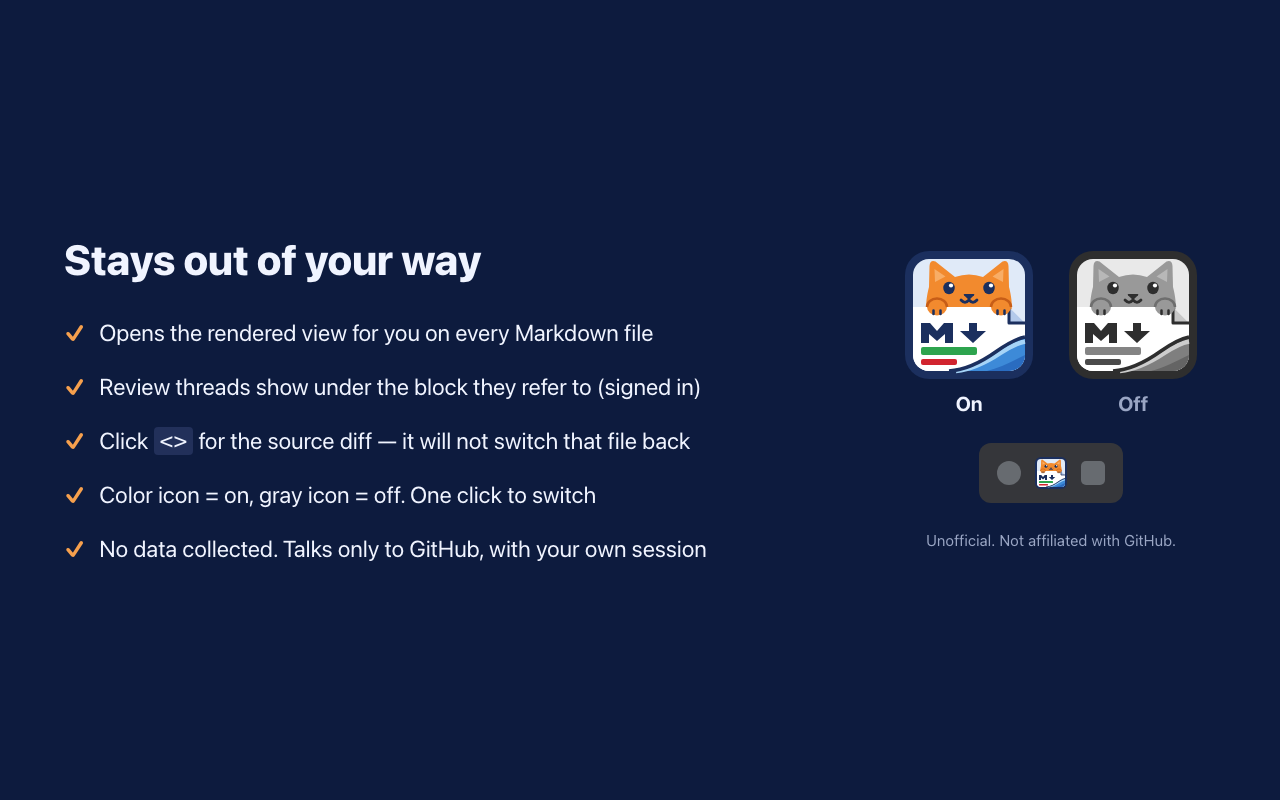
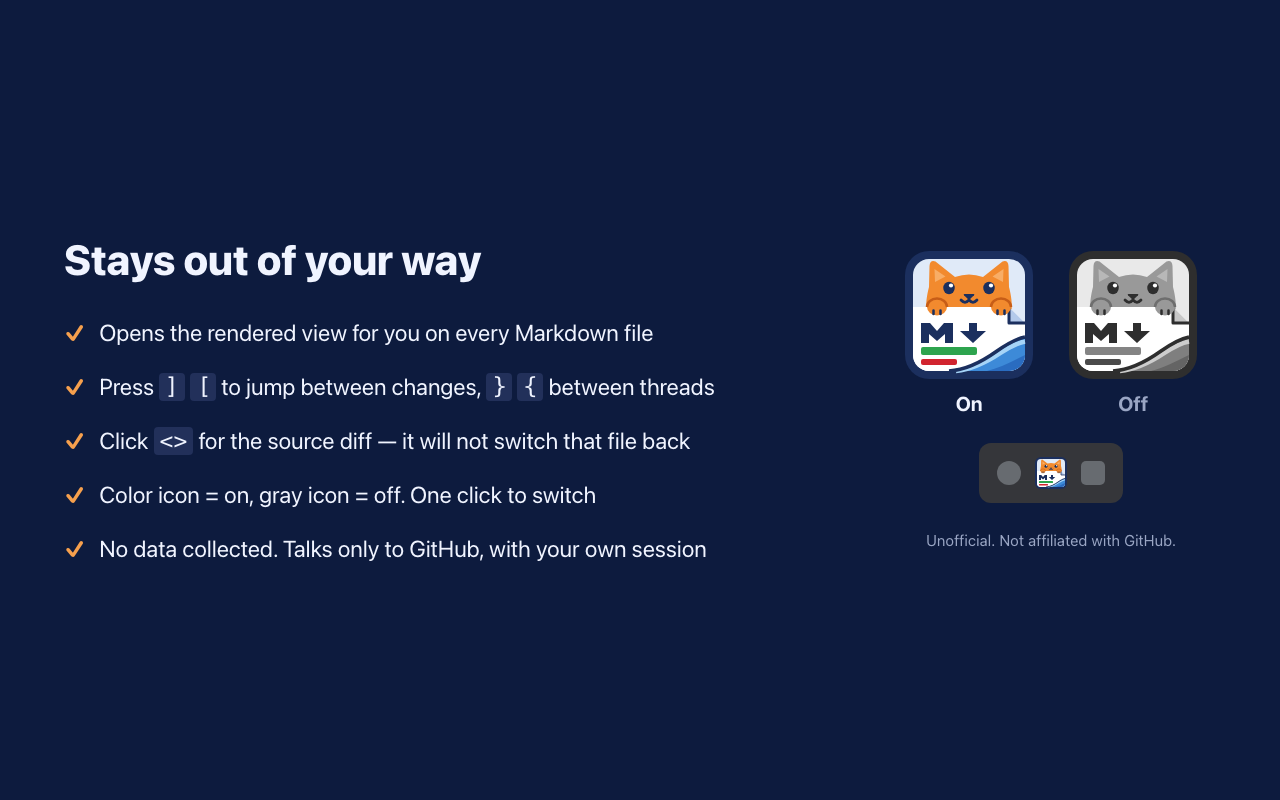
store: 1.5 등록물 — 이 도구 소개 문서를 고치는 시연 PR(영 #34·한 #35)로 스크린샷·GIF 다시 찍기, 코멘트 장면은 제안 버튼, 설명·심사 안내 1.5 기준

Changed region(s): [[0.0938, 0.4688, 0.5625, 0.5]]

diff --git a/store/test-instructions.md b/store/test-instructions.md
@@ -3,11 +3,11 @@
 Paste into the dashboard → Test instructions. Steps 1–5 need no account or sign-in. Step 6 (commenting) needs a GitHub account.
 
 1. Install the extension and keep the toolbar icon pinned (color cat = on).
-2. Open this public pull request (works signed out): https://github.com/drum-grammer/GITHUB-MD-DIFF/pull/6/files
-3. Within a few seconds `demo/design-doc.md` switches to the rendered view. Unchanged sections turn into thin bars such as "Unchanged · 9 blocks · last heading “5.1 Services”". Click a bar to expand that section.
-4. Scroll to "8. Rollout plan". Instead of GitHub's whole old table plus whole new table, one table shows only the changed row (Phase 2: Planned → In progress) and the added row (Phase 4). Click "Original tables" to see GitHub's view, then "Merged table" to switch back.
+2. Open this public pull request (works signed out): https://github.com/drum-grammer/GITHUB-MD-DIFF/pull/34/files
+3. Within a few seconds `demo/intro/markdown-diff-cat.en.md` switches to the rendered view. Unchanged sections turn into thin bars such as "Unchanged · 6 blocks · last heading “5.1 Rendered diff with folding”". Click a bar to expand that section.
+4. Scroll to "6. Feature overview". Instead of GitHub's whole old table plus whole new table, one table shows only the changed row ("Comment in the rendered view": — → 1.1, Planned → Stable) and the three added rows. Click "Original tables" to see GitHub's view, then "Merged table" to switch back.
 5. Click the toolbar icon. The icon turns gray and the page returns to GitHub's original view. Click again to turn it back on.
 
-6. Commenting (optional, needs a GitHub account): sign in to GitHub and open https://github.com/drum-grammer/GITHUB-MD-DIFF/pull/6/changes. Hover over the paragraph under "5.2 Failure handling" and click the blue +. A comment box opens labeled "Line 49". Type a comment and click "Start a review": the comment appears under the paragraph marked "Pending", visible only to you until a review is submitted. To remove it, switch the file to the source diff (<>) and delete the comment from its … menu. Dragging from + to another block comments on a range of lines.
+6. Commenting (optional, needs a GitHub account): sign in to GitHub and open https://github.com/drum-grammer/GITHUB-MD-DIFF/pull/34/changes. Hover over the paragraph under "5.2 Comment on the rendered document" and click the blue +. A comment box opens labeled "Add a comment on line R40". The first toolbar button (Add a suggestion) puts the original line into a suggestion block. Type a comment and click "Start a review": the comment appears under the paragraph marked "Pending", visible only to you until a review is submitted. To remove it, click "Delete" twice on the comment. Dragging from + to another block comments on a range of lines.
 
 It also works on any public pull request that changes a Markdown file, for example https://github.com/github/docs/pull/46149/files.

diff --git a/store/listing.en.md b/store/listing.en.md
@@ -20,9 +20,13 @@ WHAT IT DOES
 • Opens every Markdown file (.md, .markdown, .mdx) in the rendered view for you.
 • Folds unchanged sections into one-line bars. Each bar shows how many blocks it hides and the last heading inside. Click a bar to peek, or expand the whole file.
 • Tables: when one row changes, GitHub shows the whole old table and the whole new table. Markdown Diff Cat merges them into one table with only the changed, added, and removed rows, and shows changed cells as old → new. Switch to the original tables any time.
-• Comment right in the rendered view (signed in to GitHub): hover over a block and click +, or drag to another block for a range. The comment lands on the right source line as an ordinary GitHub review comment — add a single comment or add it to your review. Existing review threads show under the block they refer to, where you can reply and resolve them.
+• Comment right in the rendered view (signed in to GitHub): hover over a block and click +, or drag to another block for a range. The comment lands on the right source line as an ordinary GitHub review comment — add a single comment or add it to your review. Existing review threads show under the block they refer to, where you can reply and resolve them. Comments on the whole file show at the top.
+• The comment box works like GitHub's own: Write and Preview tabs, the same formatting toolbar and shortcuts, and a suggestion button that puts the original lines into a suggestion block so the author can apply your wording in one click. Reply boxes have it too.
+• Edit or delete your own comments in place, and preview them the way GitHub will show them.
+• Jump between changes: the top of each file says how many places changed and how many review threads are open. Press ] and [ for the next or previous change, } and { for threads.
 • Stays out of your way: click <> to switch a file to the source view and it will not switch that file back. Collapsed or Viewed files stay collapsed.
 • Color icon means on, gray icon means off. Click the toolbar icon to switch.
+• The extension's text is in English, to match GitHub's pages.
 
 Works on both the new and the classic pull request "Files changed" pages.
 

diff --git a/store/README.md b/store/README.md
@@ -20,7 +20,7 @@ To announce the extension in a chat or post, start from [sharing.md](sharing.md)
 
 ## Regenerating the images
 
-`pnpm store:assets` builds the extension, captures the demo pull request ([#6](https://github.com/drum-grammer/GITHUB-MD-DIFF/pull/6), never merged) with and without the extension, and composes the screenshots, promo tiles, and `docs/demo.gif`. It needs the signed-in test profile (`pnpm e2e:login`), because GitHub shows the new "Files changed" page only to signed-in users. Captures cover only the file area, so no account details appear. The commenting scene (screenshot 2) posts two comments as a pending review on the demo pull request, which only you can see, and deletes the review with `gh` afterwards (needs `gh` signed in as the repository owner). Five screenshots per language: 1 overview, 2 commenting, 3 folding, 4 tables, 5 stays out of your way.
+`pnpm store:assets` builds the extension, captures the demo pull request for each language (English [#34](https://github.com/drum-grammer/GITHUB-MD-DIFF/pull/34), Korean [#35](https://github.com/drum-grammer/GITHUB-MD-DIFF/pull/35), never merged: the extension's own product brief updated from 1.0 to 1.5, so the screenshots introduce the extension) with and without the extension, and composes the screenshots, promo tiles, and `docs/demo.gif`. It needs the signed-in test profile (`pnpm e2e:login`), because GitHub shows the new "Files changed" page only to signed-in users. Captures cover only the file area, so no account details appear. The commenting scene (screenshot 2) posts a comment as a pending review on the demo pull request and fills a second box through the suggestion button, which only you can see, and deletes the review with `gh` afterwards (needs `gh` signed in as the repository owner). Five screenshots per language: 1 overview, 2 commenting with a suggestion, 3 folding, 4 tables, 5 stays out of your way. The demo documents live on the branches `demo/intro-base`, `demo/intro-en`, and `demo/intro-ko`. ([#6](https://github.com/drum-grammer/GITHUB-MD-DIFF/pull/6), an unrelated checkout design document, was the demo up to 1.1.0.)
 
 ## Filling in the dashboard
 

diff --git a/ROADMAP.md b/ROADMAP.md
@@ -22,9 +22,9 @@
 1. **로컬 사용 점검 — 2026-10-16**
    - 1주 동안 쓰며 나온 불편·오류를 1.5.x로 고친다(PATCH)
    - 문제가 없으면 관리자가 검토 신청 여부를 정한다
-2. **스토어 등록물 갱신**(검토 신청과 함께)
-   - 스크린샷·데모 GIF는 1.1.0 기준이다(코멘트 장면까지)
-   - 변경 이동(1.2.0), 미리보기·편집(1.3.0), 새 코멘트 상자(1.4.0) 장면을 `pnpm store:assets`에 더한다
+2. **스토어 등록물 갱신**(검토 신청과 함께) — 2026-10-11 1.5 기준으로 다시 만듦(스크린샷·GIF·설명·심사 안내)
+   - 시연 PR을 이 도구의 소개 문서(1.0판 → 1.5판, 영 [#34](https://github.com/drum-grammer/GITHUB-MD-DIFF/pull/34)·한 [#35](https://github.com/drum-grammer/GITHUB-MD-DIFF/pull/35))로 바꿔서, 스크린샷 속 글과 코멘트가 그대로 도구 소개가 된다. 코멘트 장면은 제안 버튼
+   - 남은 것: 대시보드 입력(사람, `pnpm store:upload` 도우미)
    - 1.5.0부터 확장 문구가 영어뿐이라 한국어 스크린샷도 확장 부분은 영어로 찍힌다 — 한국어 등록정보의 설명 문구와 맞춘다
    - 대시보드 입력은 사람이 한다(`pnpm store:upload` 도우미). [store/README](store/README.md)
 3. **스토어 검토 신청**(관리자가 정하면) — 절차 정본은 [store/README · Releasing an update](store/README.md#releasing-an-update)
